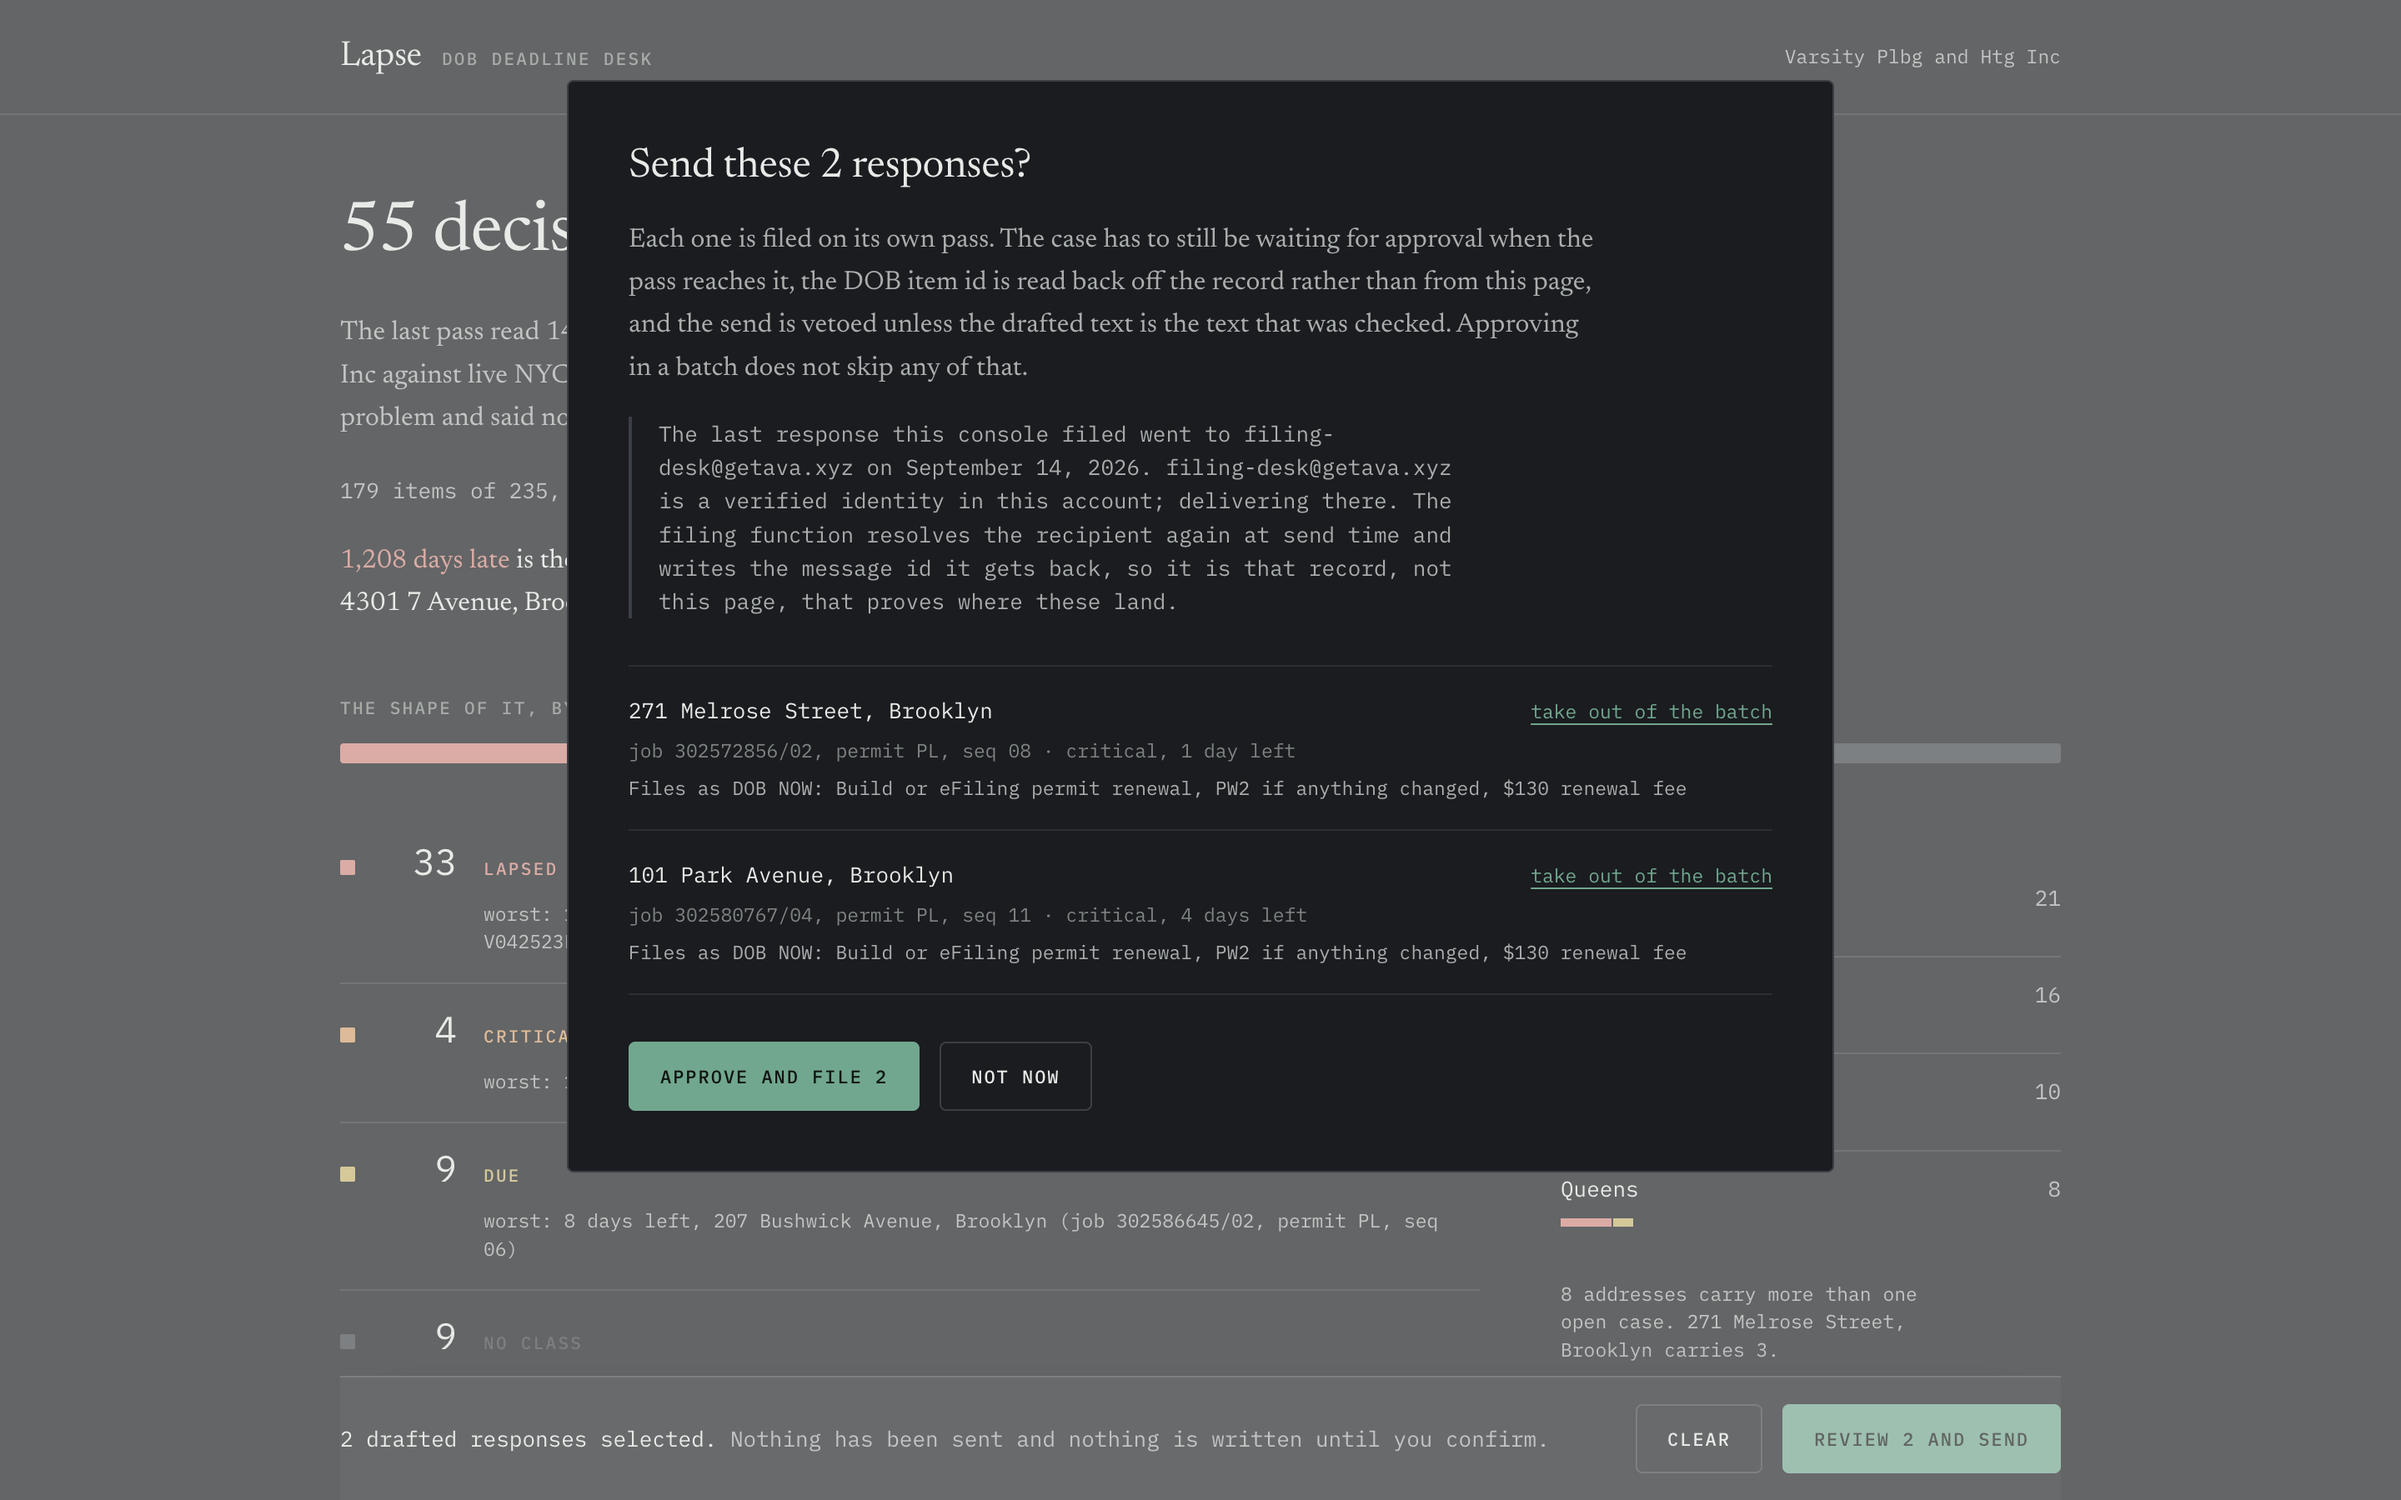
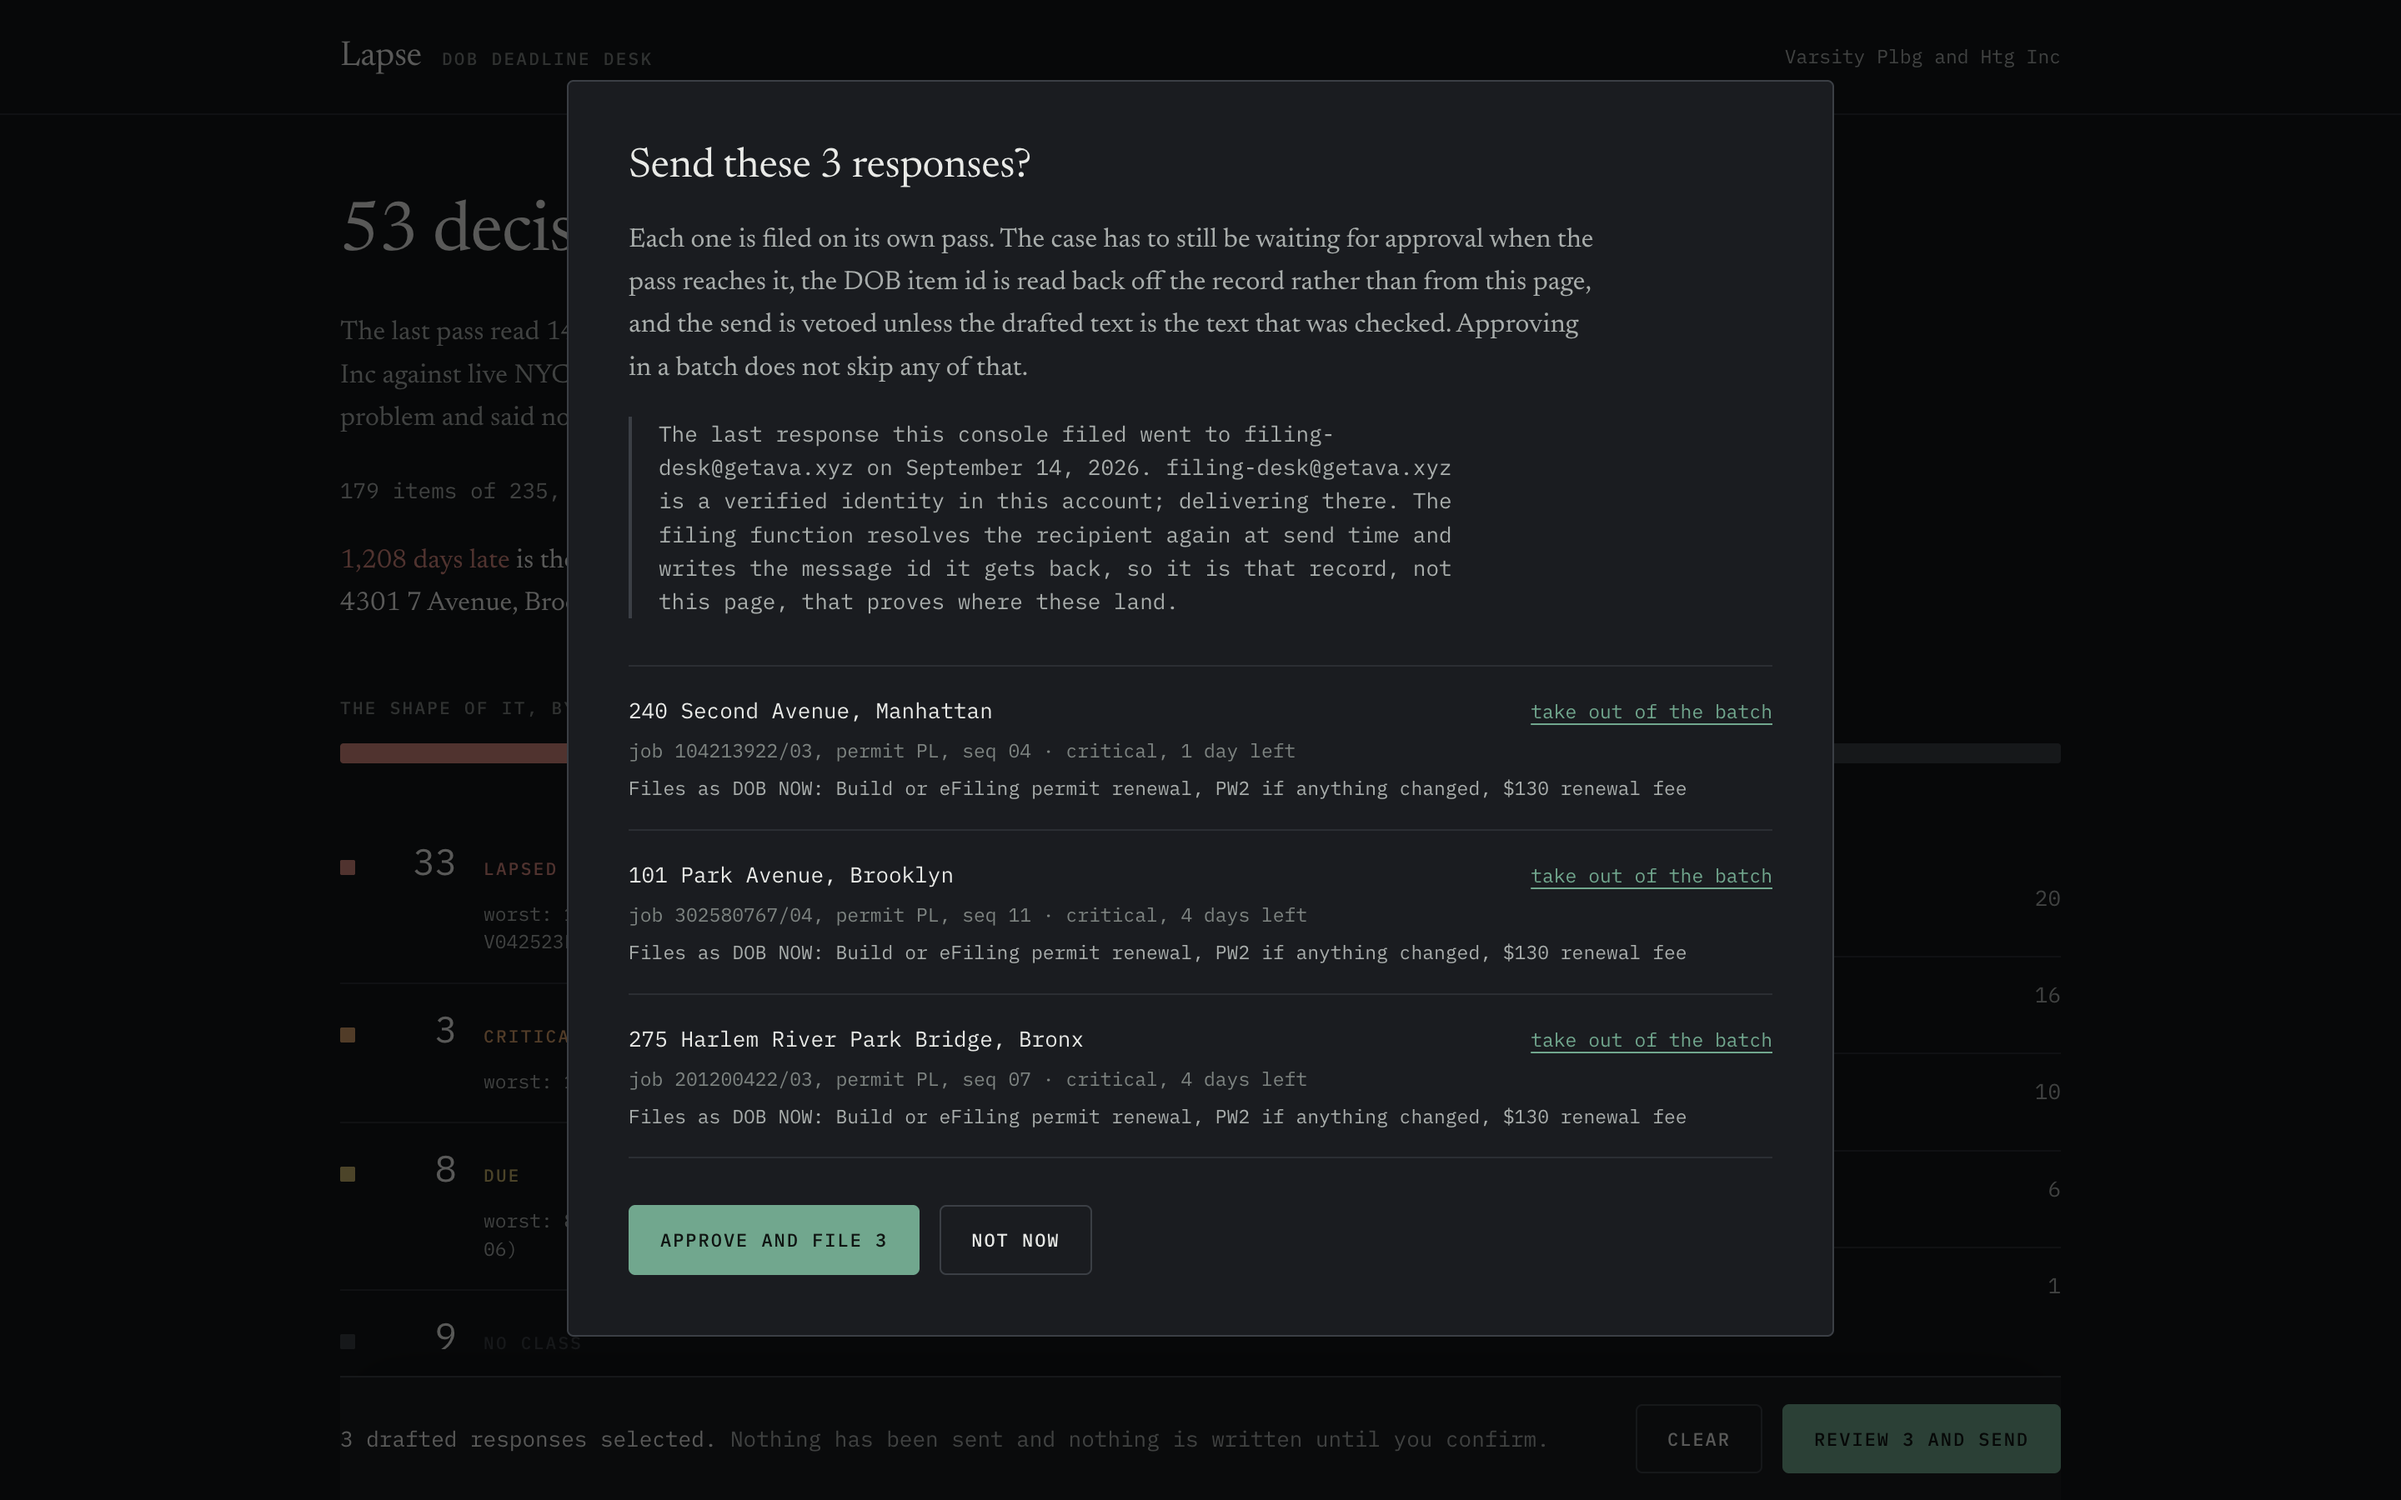
A style guard on drafts, and the veto firing in production
The last full pass fired the veto once, unrehearsed: the model reached a case
an earlier pass had already sent and tried to file it again. vetoed: 1 on that
run record is that event. Without the hook the contractor gets the same renewal
instruction twice from their own agent.

draft_response now refuses an em dash or a double hyphen. The text goes to a
person and gets pasted into a DOB filing, and machine punctuation is the last
thing a filing representative wants to hand a plan examiner.

diff --git a/console/lib/cases.ts b/console/lib/cases.ts
@@ -345,31 +345,27 @@ export interface Choice {
  * openers, and anything else gets `open`, which renders no control at all rather than the wrong
  * one. Delete `shapeFromText` and the `choices` default once every row carries the fields.
  */
-function shapeFromText(q: string): QuestionShape {
-  if (!q.endsWith("?")) return "open";
-  if (/^when\b/i.test(q)) return "date";
-  if (/^(was|is|are|has|have|did|do|does|will|should|can)\b/i.test(q)) return "yes_no";
+export function answerShape(c: Case): QuestionShape {
+  const declared = c.verdict?.question_shape;
+  if (declared === "yes_no" || declared === "date") return declared;
+  // Anything else, including a record written before the engine started stamping the shape,
+  // degrades to no control rather than to a guessed one.
   return "open";
 }
 
-export function answerShape(c: Case): QuestionShape {
-  const declared = c.verdict?.question_shape;
-  if (declared === "yes_no" || declared === "date" || declared === "open") return declared;
-  return shapeFromText(squash(c.question ?? c.verdict?.missing?.[0] ?? ""));
-}
-
-/** The city's framing of the two answers, in the order the rulebook puts them. */
+/**
+ * The city's framing of each answer, in the order the rulebook puts them, read straight off the
+ * record. `choices` is empty for every shape except `yes_no`, so a card cannot render a control
+ * for a question that has no set of answers.
+ *
+ * The generic pair below is a floor, not a guess: it only applies if a record says `yes_no` and
+ * then carries no labels, which the contract does not allow. Yes and No are true for any
+ * question that is genuinely yes or no, so the floor cannot state something false.
+ */
 export function answerChoices(c: Case): Choice[] {
   const declared = c.verdict?.choices;
   if (declared?.length) return declared;
   if (answerShape(c) !== "yes_no") return [];
-  const q = squash(c.question ?? c.verdict?.missing?.[0] ?? "");
-  if (/^was any .*\bwork\b.*\bdone\b/i.test(q)) {
-    return [
-      { value: "no", label: "No work was done after the permit expired" },
-      { value: "yes", label: "Work continued after the permit expired" },
-    ];
-  }
   return [
     { value: "no", label: "No" },
     { value: "yes", label: "Yes" },

diff --git a/agent/lapse_agent.py b/agent/lapse_agent.py
@@ -549,6 +549,14 @@ def build_agent(
             )
         if len(draft_text.split()) > 260:
             return "Rejected: too long. Eight sentences at most."
+        # This text goes to a person and gets pasted into a DOB filing. An em
+        # dash or a double hyphen in it reads as machine output, which is the
+        # last thing a filing representative wants to hand a plan examiner.
+        if "\u2014" in draft_text or " -- " in draft_text:
+            return (
+                "Rejected: the draft contains an em dash or a double hyphen. Use a "
+                "period, a comma, a colon, or two sentences, and send it again."
+            )
         already = case.get("draft_text")
         ledger.drafts[case_id_arg] = draft_text
         case["draft_text"] = draft_text

diff --git a/README.md b/README.md
@@ -191,6 +191,14 @@ A renewal request written from `job_type=A2, permit_type=PL, work_type=OT` is un
 
 Approval is permission to send something that already passed every check. It is never permission to skip the checking, and `tests/test_veto.py::test_the_hook_cancels_a_filing_that_is_actually_attempted` approves a case first and then asserts the veto still refuses it.
 
+It is not theoretical. On the last full pass over this portfolio the veto fired once, unrehearsed, for a reason nobody staged:
+
+```
+{"event": "veto", "detail": "case f28dda4b5b2584dd was already filed; it will not be sent twice"}
+```
+
+The model reached a case an earlier pass had already sent, drafted it again, and tried to file it. Without the hook the contractor gets the same renewal instruction twice from their own agent. `vetoed: 1` on that run's summary record is that event, counted.
+
 ## Who the response goes to, and why it is not the city
 
 Lapse cannot file anything with DOB, and every message it sends says so in its own body.
